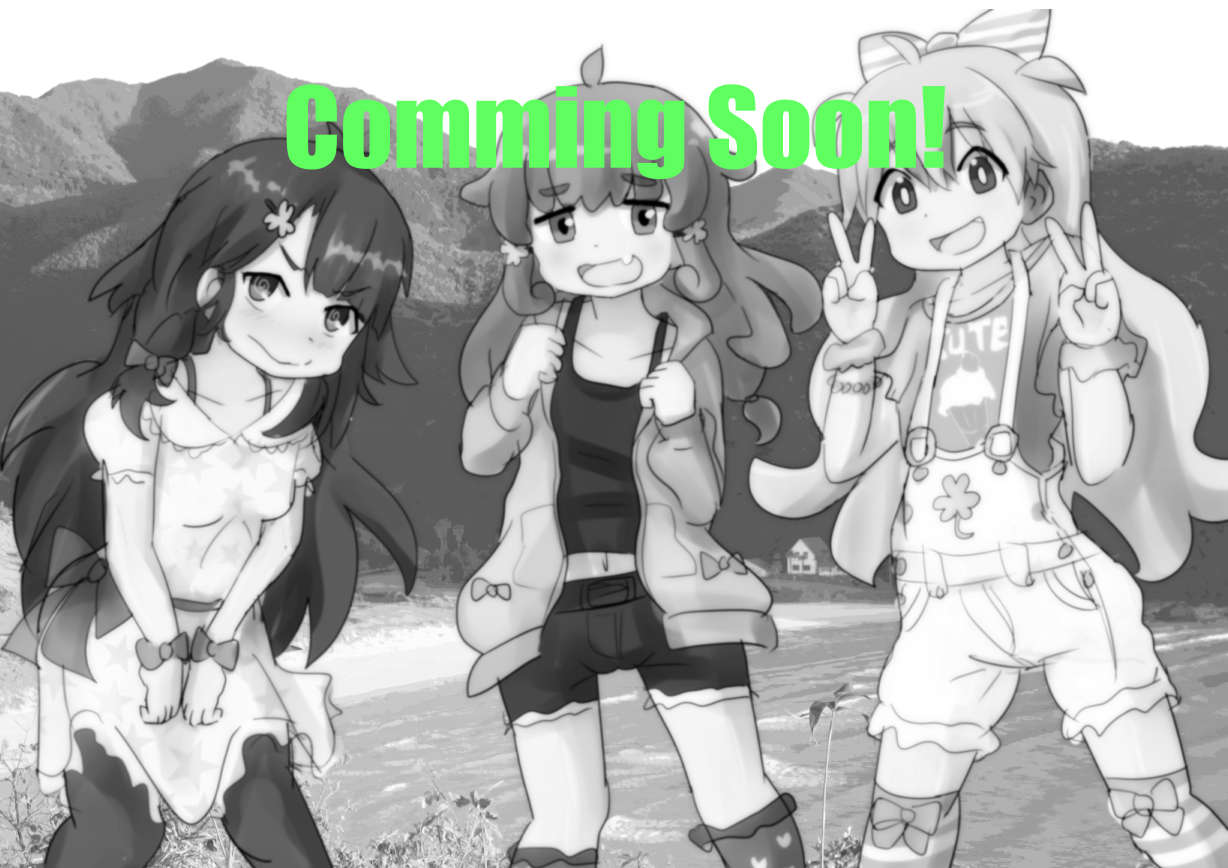
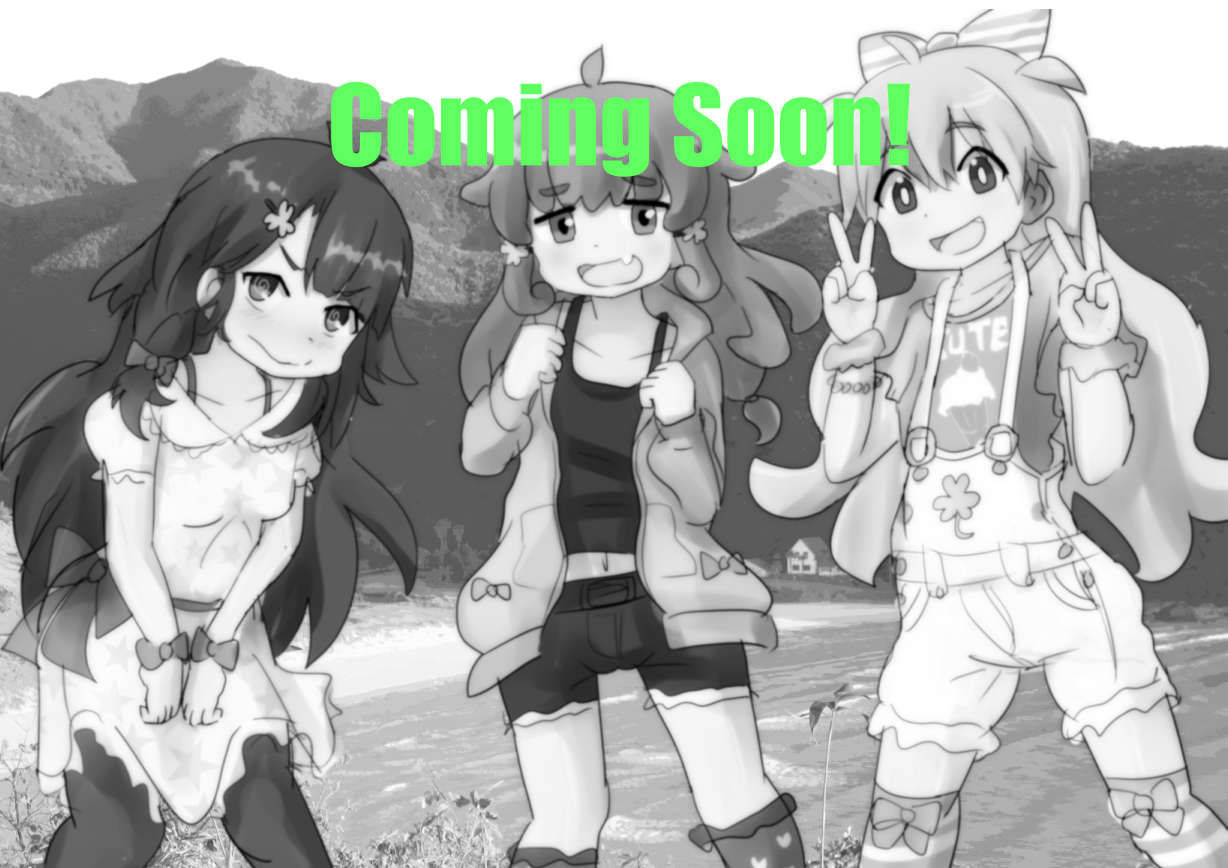
会社概要修正

Changed region(s): [[0.2166, 0.0933, 0.7736, 0.2177]]

diff --git a/pages/company.vue b/pages/company.vue
@@ -11,10 +11,6 @@
               <td>リーフエイジ合同会社</td>
             </tr>
             <tr>
-              <th>代表社員</th>
-              <td>杉本 謙仁(スギモト ケント)<br />1989年生まれ</td>
-            </tr>
-            <tr>
               <th>設立</th>
               <td>2019年1月4日</td>
             </tr>
@@ -52,12 +48,6 @@
                     </tr>
                   </tbody>
                 </table>
-              </td>
-            </tr>
-            <tr>
-              <th>所在地</th>
-              <td>
-                東京都世田谷区大原２－２７－１１　ラピス代田橋４F
               </td>
             </tr>
             <tr>

diff --git a/pages/projects/hifumira/index.vue b/pages/projects/hifumira/index.vue
@@ -2,7 +2,7 @@
   <v-content>
     <v-layout column align-center justify-center class="ma-5">
       <h1 class="text-xs-center">
-        Comming Soon!
+        Coming Soon!
       </h1>
     </v-layout>
     <section>
